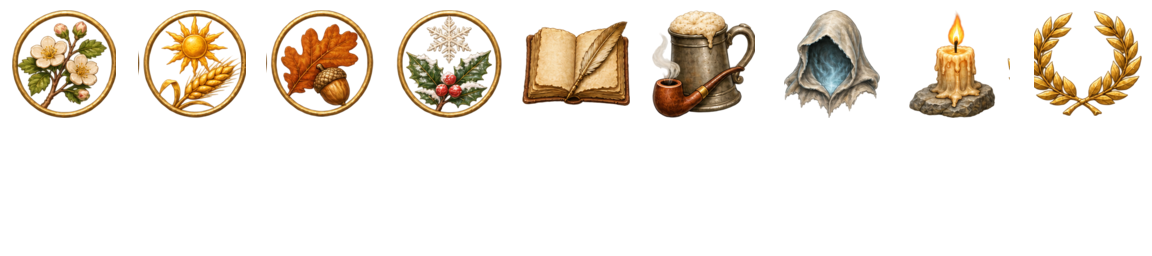
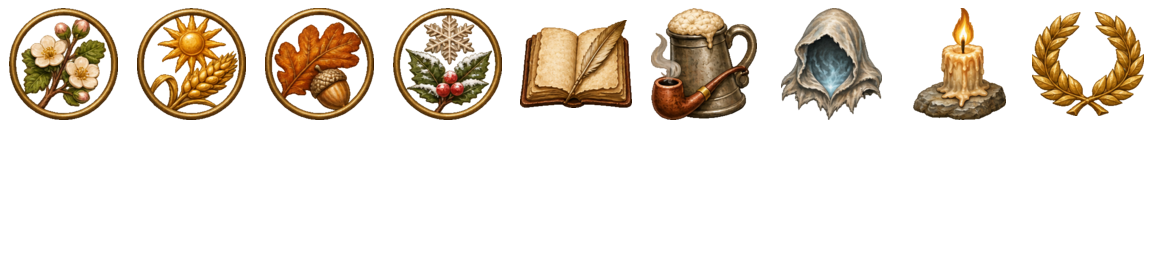
Paint warmer seasons and fates source sheet

Changed region(s): [[0.0, 0.0312, 1.0, 0.4688]]

diff --git a/docs/notes/expansion-2-art-prompts.md b/docs/notes/expansion-2-art-prompts.md
@@ -3,3 +3,20 @@
 ```text
 Repository hpatter9/legends-of-the-fall, branch art/expansion-2, file art-source/expansion/nemesis-icons.png. Paint ONE transparent PNG sprite atlas EXACT 1536x640 pixels, 12 columns x 5 rows of 128x128 cells. Reference attached atlas for style and layout, but repaint icons freshly with crisp pixel art, 1px dark outline, muted gothic steel, aged brass, bone, dark crimson. Bold clear silhouettes readable at 24px; no antialiasing, no blur, no text, no frames or grid lines. Every icon centred within its own cell, approximately 100x100 (80% cell) with transparent padding; last shield overlay smaller. Exact row ordering left to right: ROW 1 12 traits: iron skull; broken arrow caught in shield; scarred breastplate; boot planted on stone; gauntlet turning away glowing rune; hunting horn with red X over it; heart stitched together with black thread; crossed-out healer cross; executioner axe; dagger in shadow; hill topped with crown; lone wolf head. ROW 2 10 Council events then TWO EMPTY CELLS: tattered war banner on pike; gold chevron rising; two crossed jagged blades; dagger in cloaked back; spilled goblet beside roast bone; two locked gauntlets; two cut hands clasped with red drop; FOOTPRINTS visibly leading away from broken helm (make footprints obvious); running silhouette in smoke; cracked skull with stitched seam; EMPTY; EMPTY. ROW 3 seven News then FIVE EMPTY: cracked helm with tear of blood; sword through skull with red ribbon; shield carried on open hand; bandaged fist; two crossed swords inside ring of stones; War Trophy token blackened iron medallion stamped with HORNED skull, frayed RED RIBBON and BRASS RIM; small round shield overlay meant for another icon corner; remaining five EMPTY. ROWS 4 AND 5 ENTIRELY EMPTY TRANSPARENT. Transparency throughout background, no ground, no cast shadow outside each icon. Output exact canvas and grid placement.
 ```
+
+## Seasons and fates
+
+```text
+Repository hpatter9/legends-of-the-fall. Branch art/expansion-2.
+Paint ONE image: art-source/expansion/seasons-fates.png, 1152x256,
+transparent background, nine 128x256 cells, each icon centred in the
+upper 128x128 square. Lower half empty. No text. Match the existing
+textured hand-painted medieval fantasy icons, warmer muted gold and parchment.
+Four seasons inside thin aged brass rings: Spring, budding hawthorn with
+two pale blossoms; Summer, golden sun over ripe wheat; Autumn, russet oak
+leaf and acorn; Winter, frosted holly under a snowflake.
+Five unframed fates: Mentor, open parchment book and quill; Tavern regular,
+pewter tankard with clay pipe resting against it; Shade, pale spectral hood
+with faint blue glow inside; Fallen, one lit candle on a stone; Legend,
+small gold laurel wreath. Distinct whole silhouettes with transparent padding.
+```

diff --git a/docs/TASKS.md b/docs/TASKS.md
@@ -1239,3 +1239,11 @@ UI-007 final 0.190.0 validation complete: current Last Stand Auto, pause/resume,
 - Completion: 1536×640 transparent PNG; 12×5 cells, ordered 12/10/7 icons, all other cells empty; inspect source and 24px readability; commit, push, open/update Expansion art 2 PR.
 - Status: in progress. Runtime integration excluded.
 - Result: ready for review. Fresh sheet validated: exact dimensions, RGBA/binary alpha, 29 occupied / 31 empty cells, minimum 13px padding; atlas and 24px preview inspected. Source art only; no runtime checks. Handoff: [Expansion art 2](notes/expansion-2.md).
+
+### EXPANSION-2-SEASONS — Warm seasons and fates repaint
+
+- Owner: Codex; branch `art/expansion-2`; worktree `/workspace/legends-of-the-fall`.
+- Scope: `art-source/expansion/seasons-fates.png`, prompt and handoff documentation.
+- Direction: owner's exact nine-icon brief; existing painted sheet as reference, warmer muted gold and parchment.
+- Completion: one 1152×256 transparent sheet; nine centred icons confined to the upper 128×128 of each 128×256 cell; no text; add to Expansion art 2 PR.
+- Status: ready for review in [Expansion art 2 #464](https://github.com/Hpatter9/legends-of-the-fall/pull/464). Exact dimensions, RGBA, all nine centred bounds and transparent lower half passed; visually reviewed. Source art only; runtime tests/build not run. [Handoff](notes/expansion-2-seasons-fates.md).

diff --git a/docs/notes/expansion-2-seasons-fates.md b/docs/notes/expansion-2-seasons-fates.md
@@ -1,0 +1,7 @@
+# Expansion art 2 — seasons and fates
+
+Owner: Codex. Branch: `art/expansion-2`. PR: [Expansion art 2](https://github.com/Hpatter9/legends-of-the-fall/pull/464).
+
+Repainted only `art-source/expansion/seasons-fates.png`, using the existing painted sheet as reference and the owner's warmer muted gold/parchment brief. Nine icons in order: Spring (two hawthorn blossoms), Summer, Autumn, Winter, Mentor, Tavern regular, Shade, Fallen and Legend. Only the seasons have thin brass rings. Prompt recorded in `expansion-2-art-prompts.md`.
+
+Generated one sheet, removed faint background alpha residue and fitted each complete icon into a 112×112 bounding square, centred within the top 128×128 of its cell. Final source is exactly 1152×256 RGBA; lower half is entirely transparent. Checked all nine occupied cells and their bounds, and inspected against a warm dark background. No runtime changes; tests/build not run. Existing branch artwork preserved. Ready for review; no merge or version bump.
